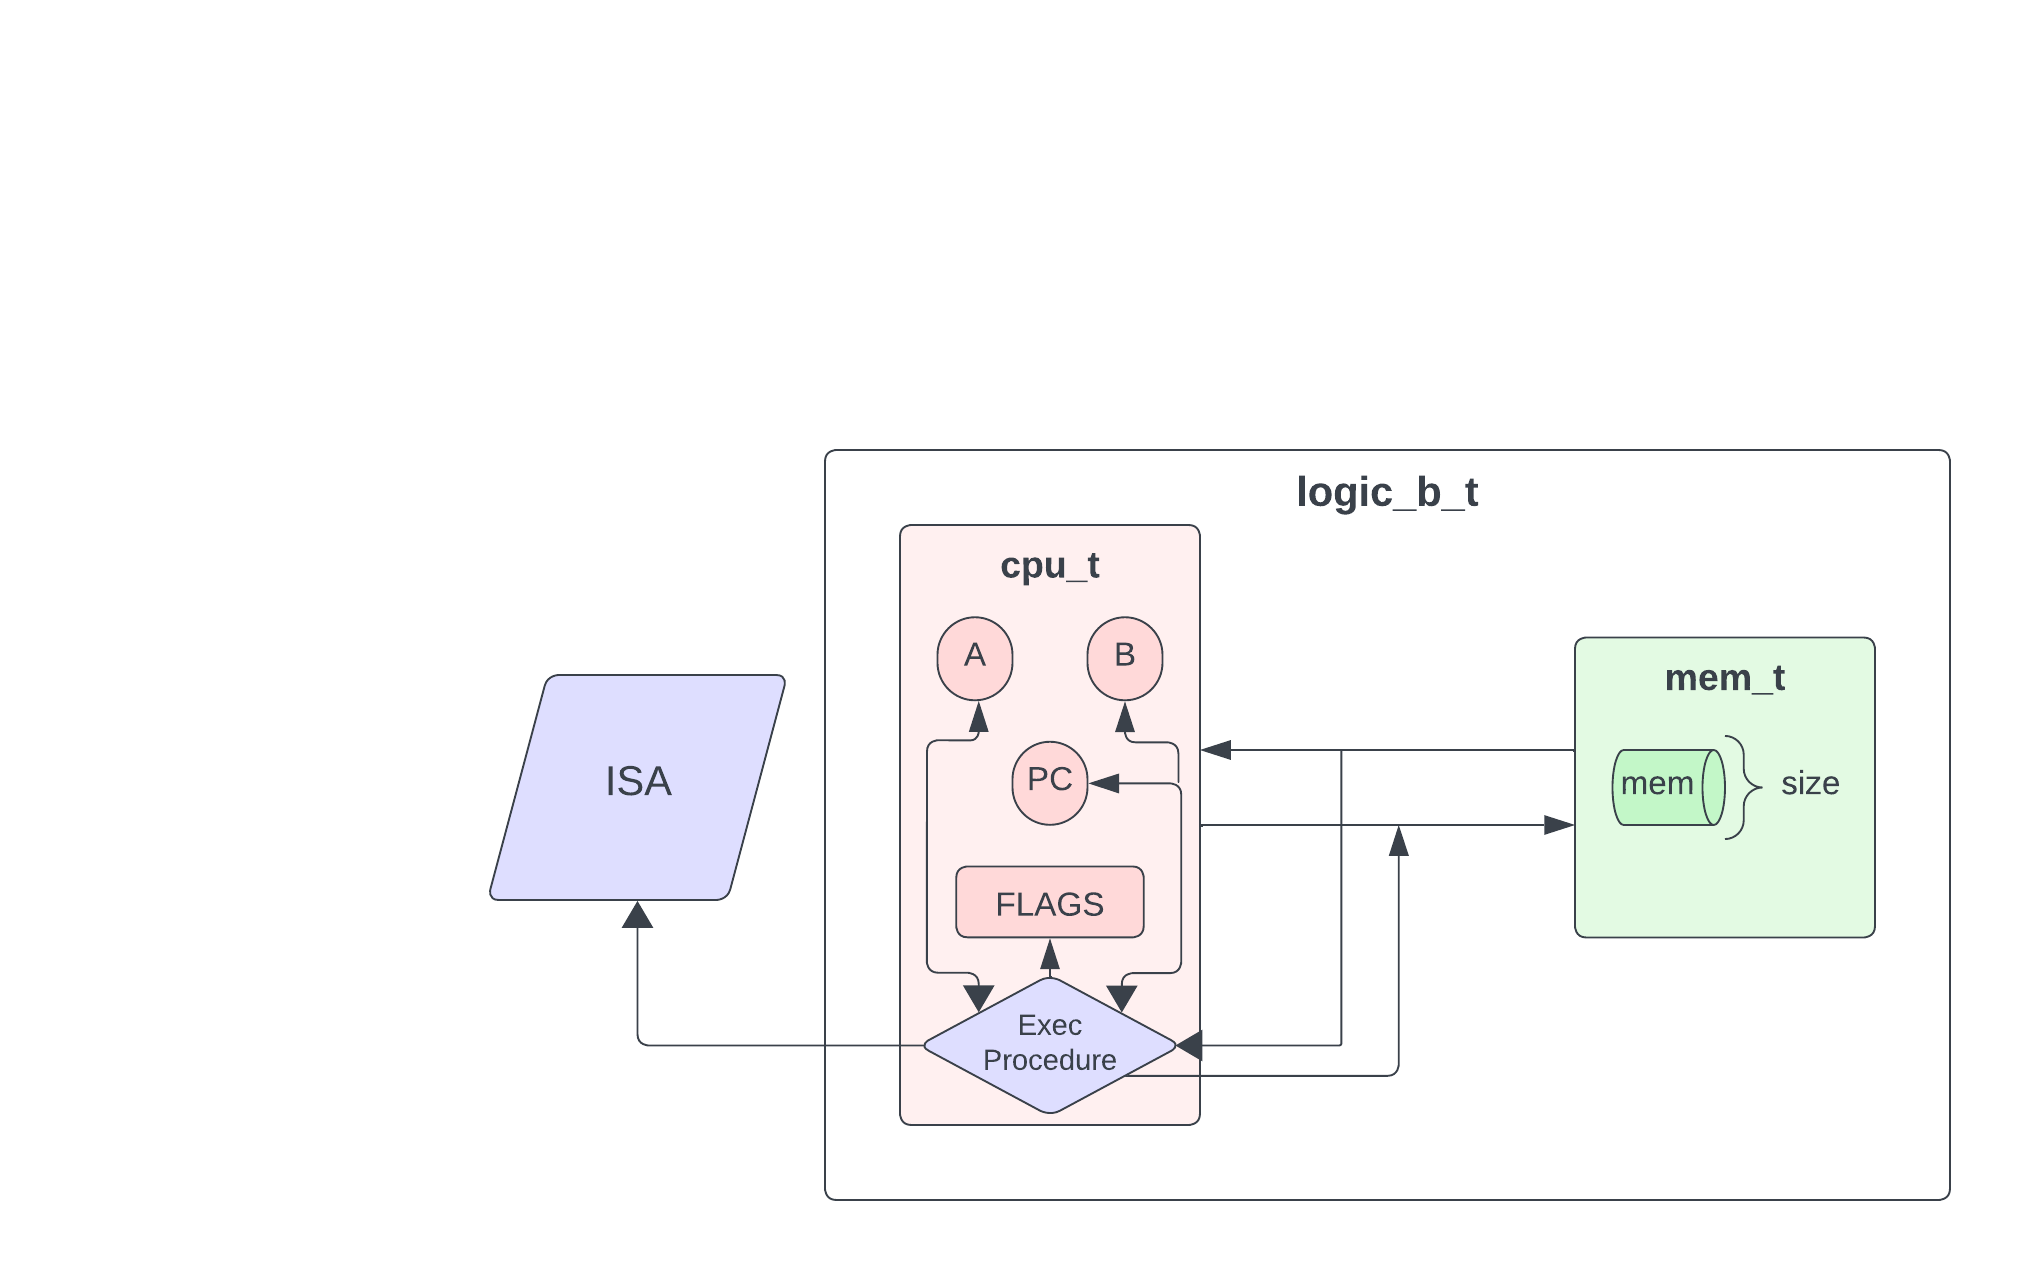
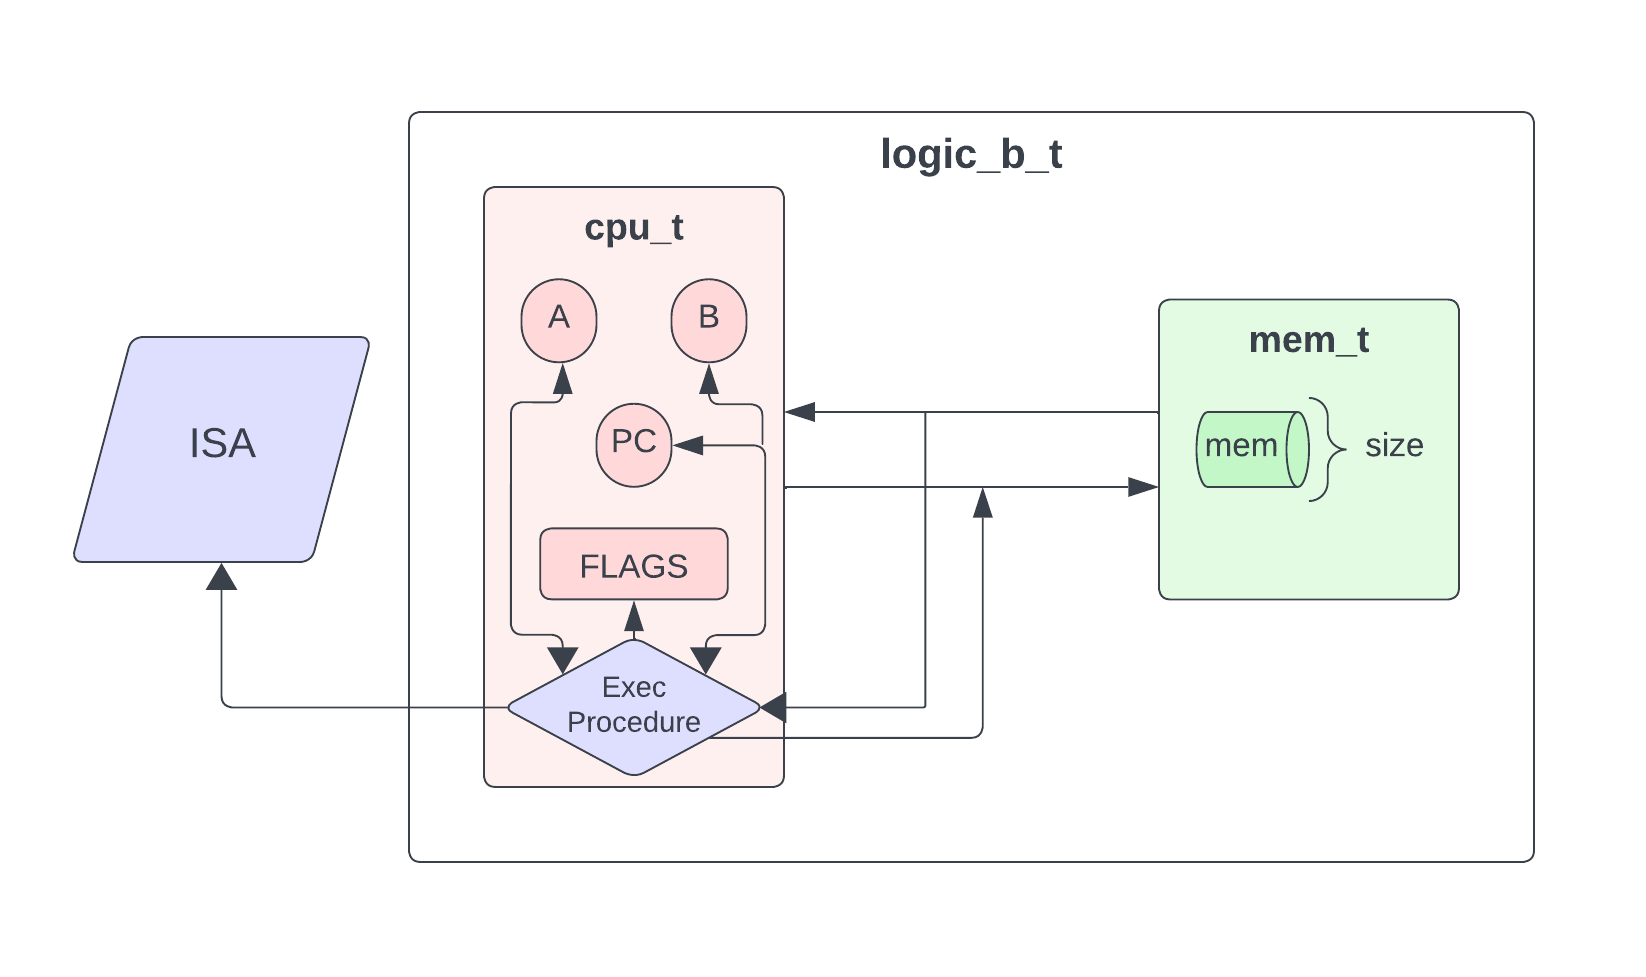
Now README is more beautiful :)

diff --git a/README.md b/README.md
@@ -1,6 +1,8 @@
 # EmuCPU
 
-![EmuCPU](https://raw.githubusercontent.com/strzelca/EmuCPU/main/.github/imgs/diagram.png)
+<p align="center">
+<img src="https://raw.githubusercontent.com/strzelca/EmuCPU/main/.github/imgs/diagram.png" width=500>
+</p>
 
 ## What is EmuCPU?
 EmuCPU is an emulator for a CPU I designed. 
